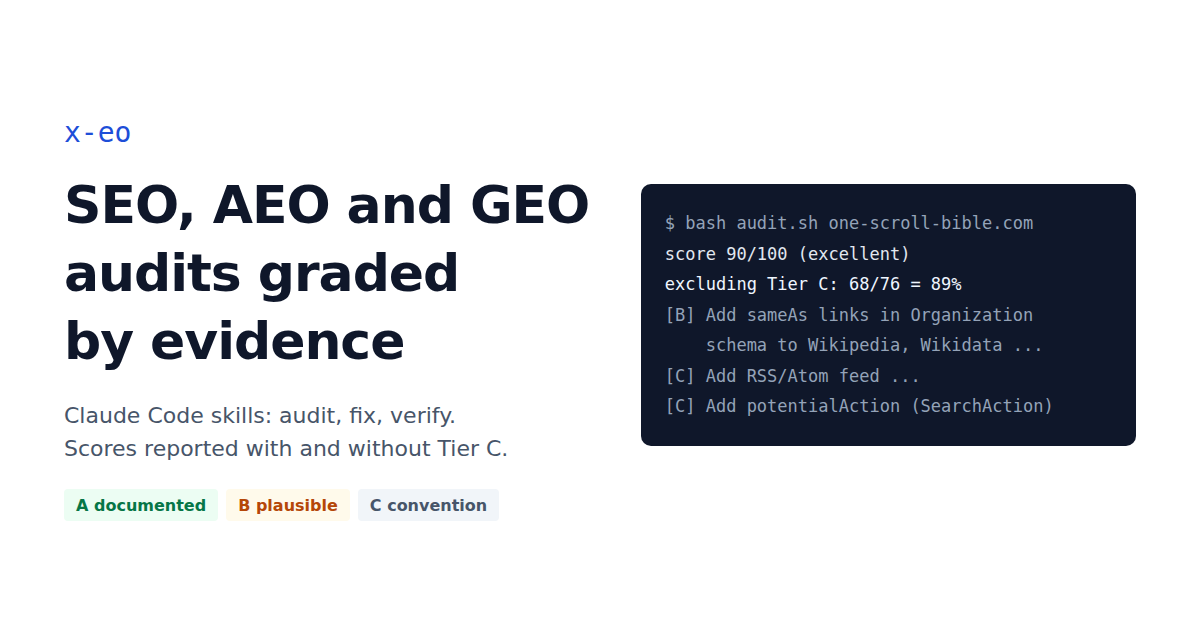
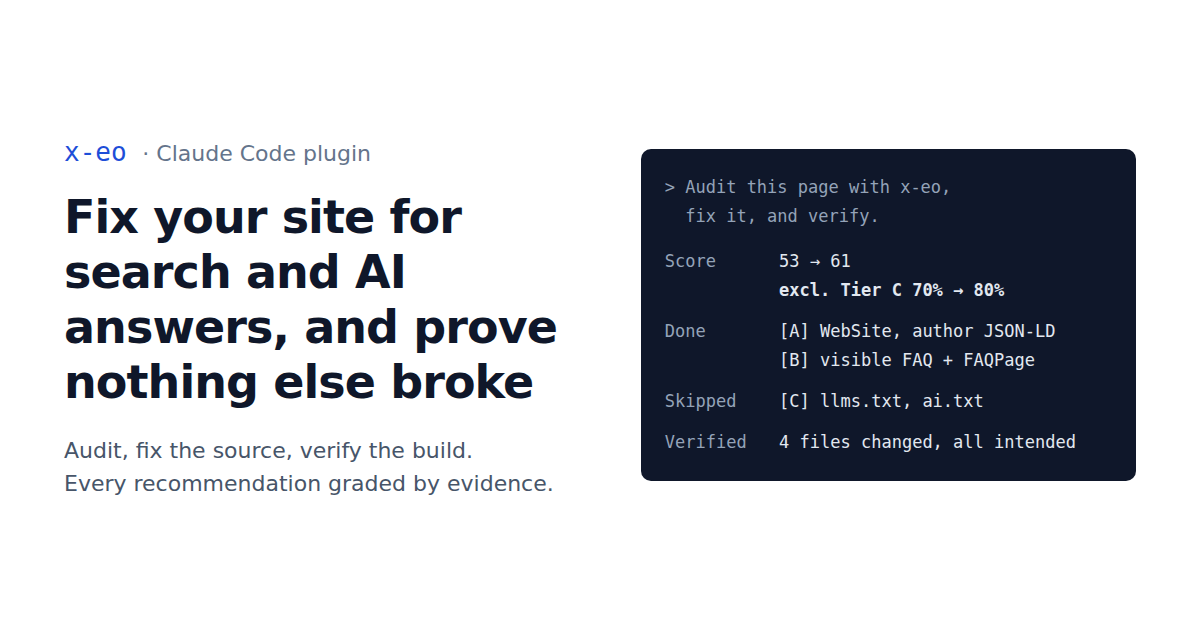
Share image matches the new page: outcome headline and the self-run report
og.png is rendered from site/og/card.html; the report panel repeats facts from the x-eo run on
its own page. og:image URLs carry a content hash (?v=) so chat apps refetch the new image.

Claude-Session: https://claude.ai/code/session_01G16ZFhEtAJm4h2rUPpqrA6

diff --git a/site/og/card.html b/site/og/card.html
@@ -4,37 +4,42 @@
 <meta charset="utf-8">
 <meta name="robots" content="noindex">
 <title>x-eo share image source</title>
-<!-- Source for ../og.png (1200x630). Rendered by og/render.mjs; same "Clear" tokens as the page. -->
+<!-- Source for ../og.png (1200x630). Rendered by og/render.mjs; same "Clear" tokens as the page.
+     The report panel repeats the page's hero report: facts from the x-eo run on its own page, 2026-10-10. -->
 <link rel="stylesheet" href="../assets/design/tokens.css">
 <link rel="stylesheet" href="../assets/design/components.css">
 <style>
   html, body { width: 1200px; height: 630px; overflow: hidden; }
   .card { box-sizing: border-box; width: 1200px; height: 630px; padding: var(--space-8); display: grid; grid-template-columns: 11fr 10fr; gap: var(--space-6); align-items: center; background: var(--bg); }
-  .name { font-family: var(--font-mono); font-size: 28px; font-weight: 500; color: var(--accent); }
-  h1 { font-size: 52px; margin-top: var(--space-4); letter-spacing: -0.02em; }
+  .name { font-family: var(--font-mono); font-size: 26px; font-weight: 500; color: var(--accent); }
+  .name span { color: var(--subtle); font-family: var(--font-sans); font-weight: 400; font-size: 22px; }
+  h1 { font-size: 46px; margin-top: var(--space-4); letter-spacing: -0.02em; line-height: 1.2; }
   .sub { margin-top: var(--space-5); font-size: 22px; color: var(--muted); line-height: 1.5; }
-  .term { background: var(--code-bg); color: var(--code-fg); border-radius: var(--radius-l); padding: var(--space-5); font-family: var(--font-mono); font-size: 17px; line-height: 1.8; white-space: pre; }
-  .term .c { color: var(--code-muted); }
-  .term .hl { color: var(--accent-soft); font-weight: 500; }
-  .tiers { display: flex; gap: var(--space-2); margin-top: var(--space-5); }
-  .tiers .ds-badge { font-size: 16px; min-height: 32px; padding: 0 var(--space-3); }
+  .report { background: var(--code-bg); color: var(--code-fg); border-radius: var(--radius-l); padding: var(--space-5); font-family: var(--font-mono); font-size: 17px; line-height: 1.7; }
+  .report .ask { color: var(--code-muted); }
+  .report dl { margin: var(--space-4) 0 0; display: grid; gap: var(--space-3); }
+  .report dl > div { display: grid; grid-template-columns: 10ch 1fr; gap: var(--space-3); }
+  .report dt { color: var(--code-muted); }
+  .report dd { margin: 0; }
+  .report b { font-weight: 700; }
 </style>
 </head>
 <body>
 <div class="card">
   <div>
-    <div class="name">x-eo</div>
-    <h1>SEO, AEO and GEO audits graded by evidence</h1>
-    <p class="sub">Claude Code skills: audit, fix, verify.<br>Scores reported with and without Tier C.</p>
-    <div class="tiers"><span class="ds-badge ds-badge--ok">A documented</span><span class="ds-badge ds-badge--warn">B plausible</span><span class="ds-badge">C convention</span></div>
+    <div class="name">x-eo <span>· Claude Code plugin</span></div>
+    <h1>Fix your site for search and AI answers, and prove nothing else broke</h1>
+    <p class="sub">Audit, fix the source, verify the build.<br>Every recommendation graded by evidence.</p>
   </div>
-  <div class="term"><span class="c">$ bash audit.sh one-scroll-bible.com</span>
-score 90/100 (excellent)
-<span class="hl">excluding Tier C: 68/76 = 89%</span>
-<span class="c">[B] Add sameAs links in Organization
-    schema to Wikipedia, Wikidata ...
-[C] Add RSS/Atom feed ...
-[C] Add potentialAction (SearchAction)</span></div>
+  <div class="report">
+    <div class="ask">&gt; Audit this page with x-eo,<br>&nbsp;&nbsp;fix it, and verify.</div>
+    <dl>
+      <div><dt>Score</dt><dd>53 → 61<br><b>excl. Tier C 70% → 80%</b></dd></div>
+      <div><dt>Done</dt><dd>[A] WebSite, author JSON-LD<br>[B] visible FAQ + FAQPage</dd></div>
+      <div><dt>Skipped</dt><dd>[C] llms.txt, ai.txt</dd></div>
+      <div><dt>Verified</dt><dd>4 files changed, all intended</dd></div>
+    </dl>
+  </div>
 </div>
 </body>
 </html>

diff --git a/site/ko/index.html b/site/ko/index.html
@@ -14,12 +14,12 @@
 <meta property="og:description" content="SEO, AEO, GEO용 Claude Code 플러그인입니다. 사이트 점검, 레포 소스 수정, 빌드 검증을 맡고 모든 권고에 증거 등급을 붙입니다.">
 <meta property="og:url" content="https://jungrok5.github.io/x-eo/ko/">
 <meta property="og:locale" content="ko_KR">
-<meta property="og:image" content="https://jungrok5.github.io/x-eo/og.png">
+<meta property="og:image" content="https://jungrok5.github.io/x-eo/og.png?v=572d4463">
 <meta property="og:image:width" content="1200">
 <meta property="og:image:height" content="630">
-<meta property="og:image:alt" content="x-eo: SEO, AEO and GEO audits graded by evidence, next to audit.sh output (score 90/100, excluding Tier C 68/76)">
+<meta property="og:image:alt" content="x-eo, a Claude Code plugin: fix your site for search and AI answers, and prove nothing else broke. Report: score 53 to 61, excluding Tier C 70% to 80%.">
 <meta name="twitter:card" content="summary_large_image">
-<meta name="twitter:image" content="https://jungrok5.github.io/x-eo/og.png">
+<meta name="twitter:image" content="https://jungrok5.github.io/x-eo/og.png?v=572d4463">
 <link rel="icon" href="data:,">
 <script type="application/ld+json">{"@context": "https://schema.org", "@graph": [{"@type": "WebSite", "@id": "https://jungrok5.github.io/x-eo/#website", "name": "x-eo", "url": "https://jungrok5.github.io/x-eo/", "inLanguage": ["en", "ko"], "author": {"@id": "https://jungrok5.github.io/resume/#person"}}, {"@type": "SoftwareSourceCode", "name": "x-eo", "url": "https://jungrok5.github.io/x-eo/ko/", "codeRepository": "https://github.com/jungrok5/x-eo", "description": "SEO, AEO, GEO용 Claude Code 플러그인입니다. 사이트 점검, 레포 소스 수정, 빌드 검증을 맡고 모든 권고에 증거 등급을 붙입니다.", "inLanguage": "ko", "license": "https://opensource.org/licenses/MIT", "programmingLanguage": ["Python", "JavaScript", "Shell"], "runtimePlatform": "Claude Code", "author": {"@id": "https://jungrok5.github.io/resume/#person"}, "isPartOf": {"@id": "https://jungrok5.github.io/x-eo/#website"}}, {"@type": "FAQPage", "inLanguage": "ko", "mainEntity": [{"@type": "Question", "name": "x-eo가 사이트를 스스로 바꿉니까?", "acceptedAnswer": {"@type": "Answer", "text": "아닙니다. 스킬은 Claude Code에 요청할 때만 동작합니다. x-eo-fix는 레포의 소스만 수정합니다. 배포하기 전에는 실제 사이트에 반영되지 않습니다. 훅이나 백그라운드 에이전트는 없습니다."}}, {"@type": "Question", "name": "API 키가 필요합니까?", "acceptedAnswer": {"@type": "Answer", "text": "ai-recall.mjs에만 필요합니다. Anthropic 또는 OpenAI 키가 필요하고 질문과 엔진마다 검색 요청 1회 비용이 발생합니다. 점검, 수정, 검증 스크립트는 키 없이 실행됩니다."}}, {"@type": "Question", "name": "점수가 오르면 방문자가 늘어납니까?", "acceptedAnswer": {"@type": "Answer", "text": "반드시 그렇지는 않습니다. 점수는 한 도구의 가중치를 따릅니다. Google은 AI용 텍스트 파일을 무시한다고 밝혔습니다. 그래서 x-eo는 점수를 Tier C 포함·제외로 함께 보고합니다. AI 엔진의 인용은 표본으로만 확인합니다."}}, {"@type": "Question", "name": "Claude Code 없이도 쓸 수 있습니까?", "acceptedAnswer": {"@type": "Answer", "text": "스크립트는 단독으로 실행됩니다(아래 개발자용 항목 참고). 다만 어떤 항목을 어떻게 고칠지 정하고 적용하는 부분은 Claude Code가 맡습니다."}}]}, {"@type": "Person", "@id": "https://jungrok5.github.io/resume/#person", "name": "오정록 (Jeongrok Oh)", "url": "https://jungrok5.github.io/resume/", "sameAs": ["https://github.com/jungrok5", "https://www.linkedin.com/in/jungrok5"]}]}</script>
 <link rel="stylesheet" href="../assets/design/tokens.css">

diff --git a/site/index.html b/site/index.html
@@ -14,12 +14,12 @@
 <meta property="og:description" content="Claude Code plugin for SEO, AEO and GEO. It audits a site, fixes the source in your repository, and verifies the build, with an evidence tier on every recommendation.">
 <meta property="og:url" content="https://jungrok5.github.io/x-eo/">
 <meta property="og:locale" content="en_US">
-<meta property="og:image" content="https://jungrok5.github.io/x-eo/og.png">
+<meta property="og:image" content="https://jungrok5.github.io/x-eo/og.png?v=572d4463">
 <meta property="og:image:width" content="1200">
 <meta property="og:image:height" content="630">
-<meta property="og:image:alt" content="x-eo: SEO, AEO and GEO audits graded by evidence, next to audit.sh output (score 90/100, excluding Tier C 68/76)">
+<meta property="og:image:alt" content="x-eo, a Claude Code plugin: fix your site for search and AI answers, and prove nothing else broke. Report: score 53 to 61, excluding Tier C 70% to 80%.">
 <meta name="twitter:card" content="summary_large_image">
-<meta name="twitter:image" content="https://jungrok5.github.io/x-eo/og.png">
+<meta name="twitter:image" content="https://jungrok5.github.io/x-eo/og.png?v=572d4463">
 <link rel="icon" href="data:,">
 <script type="application/ld+json">{"@context": "https://schema.org", "@graph": [{"@type": "WebSite", "@id": "https://jungrok5.github.io/x-eo/#website", "name": "x-eo", "url": "https://jungrok5.github.io/x-eo/", "inLanguage": ["en", "ko"], "author": {"@id": "https://jungrok5.github.io/resume/#person"}}, {"@type": "SoftwareSourceCode", "name": "x-eo", "url": "https://jungrok5.github.io/x-eo/", "codeRepository": "https://github.com/jungrok5/x-eo", "description": "Claude Code plugin for SEO, AEO and GEO. It audits a site, fixes the source in your repository, and verifies the build, with an evidence tier on every recommendation.", "inLanguage": "en", "license": "https://opensource.org/licenses/MIT", "programmingLanguage": ["Python", "JavaScript", "Shell"], "runtimePlatform": "Claude Code", "author": {"@id": "https://jungrok5.github.io/resume/#person"}, "isPartOf": {"@id": "https://jungrok5.github.io/x-eo/#website"}}, {"@type": "FAQPage", "inLanguage": "en", "mainEntity": [{"@type": "Question", "name": "Does x-eo change my site on its own?", "acceptedAnswer": {"@type": "Answer", "text": "No. The skills act only when you ask Claude Code. x-eo-fix edits the source in your repository, and nothing goes live until you deploy. There is no hook or background agent."}}, {"@type": "Question", "name": "Do I need an API key?", "acceptedAnswer": {"@type": "Answer", "text": "Only for ai-recall.mjs, which needs an Anthropic or OpenAI key and costs one search-enabled request per question and engine. The audit, fix and verify scripts run without keys."}}, {"@type": "Question", "name": "Will a higher score bring more visitors?", "acceptedAnswer": {"@type": "Answer", "text": "Not necessarily. The score follows one tool's weights, and Google says it ignores AI text files. That is why x-eo reports the score with and without Tier C points, and why citation by AI engines is only sampled."}}, {"@type": "Question", "name": "Does it work without Claude Code?", "acceptedAnswer": {"@type": "Answer", "text": "The scripts run on their own (see the developer section below), but choosing and applying fixes is the part Claude Code does."}}]}, {"@type": "Person", "@id": "https://jungrok5.github.io/resume/#person", "name": "오정록 (Jeongrok Oh)", "url": "https://jungrok5.github.io/resume/", "sameAs": ["https://github.com/jungrok5", "https://www.linkedin.com/in/jungrok5"]}]}</script>
 <link rel="stylesheet" href="assets/design/tokens.css">

diff --git a/site/build.py b/site/build.py
@@ -12,6 +12,9 @@ ROOT = pathlib.Path(__file__).resolve().parent
 BASE = "https://jungrok5.github.io/x-eo/"
 REPO = "https://github.com/jungrok5/x-eo"
 E = html.escape
+# content hash on the share image URL: chat apps (KakaoTalk, Slack) cache previews by URL
+import hashlib
+OG_V = hashlib.sha1((ROOT / "og.png").read_bytes()).hexdigest()[:8]
 
 PLUGIN = "claude plugin marketplace add jungrok5/x-eo\nclaude plugin install x-eo@x-eo"
 MANUAL = "git clone --depth 1 https://github.com/jungrok5/x-eo.git\nmkdir -p ~/.claude/skills && cp -r x-eo/plugins/x-eo/skills/* ~/.claude/skills/"
@@ -242,12 +245,12 @@ def page(code):
 <meta property="og:description" content="{E(t['desc'])}">
 <meta property="og:url" content="{url}">
 <meta property="og:locale" content="{'en_US' if code == 'en' else 'ko_KR'}">
-<meta property="og:image" content="{BASE}og.png">
+<meta property="og:image" content="{BASE}og.png?v={OG_V}">
 <meta property="og:image:width" content="1200">
 <meta property="og:image:height" content="630">
-<meta property="og:image:alt" content="x-eo: SEO, AEO and GEO audits graded by evidence, next to audit.sh output (score 90/100, excluding Tier C 68/76)">
+<meta property="og:image:alt" content="x-eo, a Claude Code plugin: fix your site for search and AI answers, and prove nothing else broke. Report: score 53 to 61, excluding Tier C 70% to 80%.">
 <meta name="twitter:card" content="summary_large_image">
-<meta name="twitter:image" content="{BASE}og.png">
+<meta name="twitter:image" content="{BASE}og.png?v={OG_V}">
 <link rel="icon" href="data:,">
 <script type="application/ld+json">{json.dumps(ld, ensure_ascii=False)}</script>
 <link rel="stylesheet" href="{pre}assets/design/tokens.css">
